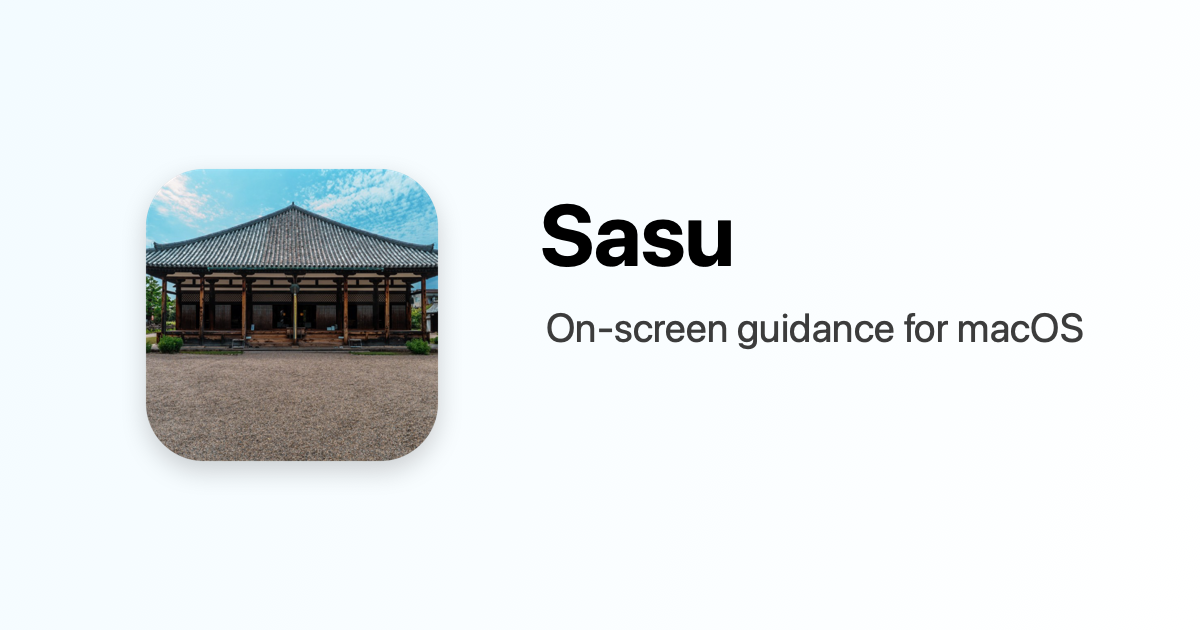
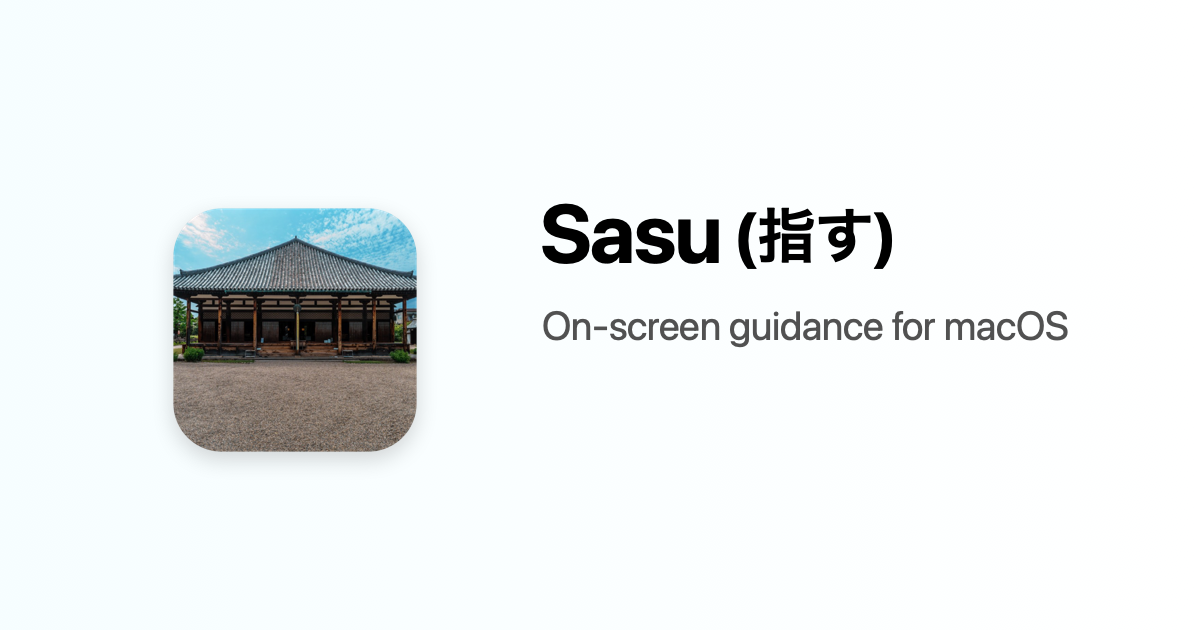
updates

Changed region(s): [[0.1233, 0.2413, 0.37, 0.754], [0.4317, 0.4825, 0.925, 0.573], [0.4625, 0.3317, 0.7708, 0.4222]]

diff --git a/sasu.html b/sasu.html
@@ -99,7 +99,7 @@
       <div class="sasu-hero-header">
         <img class="sasu-icon" src="assets/sasu-icon.png" alt="Sasu app icon">
         <div>
-          <h1>Sasu</h1>
+          <h1>Sasu (指す)</h1>
           <div
             class="sasu-tagline"
             data-label-en="Ask questions about the page, form, or app on your screen."
@@ -145,11 +145,12 @@
     <div class="sasu-section">
       <h2 data-label-en="Why I built it:" data-label-ja="作った理由:">Why I built it:</h2>
       <div
-        data-label-en="I live in Japan and sometimes need help understanding forms, settings pages, and unfamiliar UI. Sasu makes the screenshot-and-ask workflow fast enough to use in the moment."
-        data-label-ja="日本に住んでいて、フォーム、設定画面、慣れていないUIを理解するために助けが必要になることがあります。Sasuはスクリーンショットを撮って質問する流れを、その場で使えるくらい速くするために作りました。"
+        data-label-en="I live in Japan and sometimes need help understanding forms, settings pages, and unfamiliar UI. Sasu makes the screenshot-and-ask workflow fast enough to use in the moment. The name is 指す — 'to point.'"
+        data-label-ja="日本に住んでいて、フォーム、設定画面、慣れていないUIを理解するために助けが必要になることがあります。Sasuはスクリーンショットを撮って質問する流れを、その場で使えるくらい速くするために作りました。名前は「指す」から来ています。"
       >
         I live in Japan and sometimes need help understanding forms, settings pages, and unfamiliar UI.
         Sasu makes the screenshot-and-ask workflow fast enough to use in the moment.
+        The name is 指す — 'to point.'
       </div>
     </div>
 